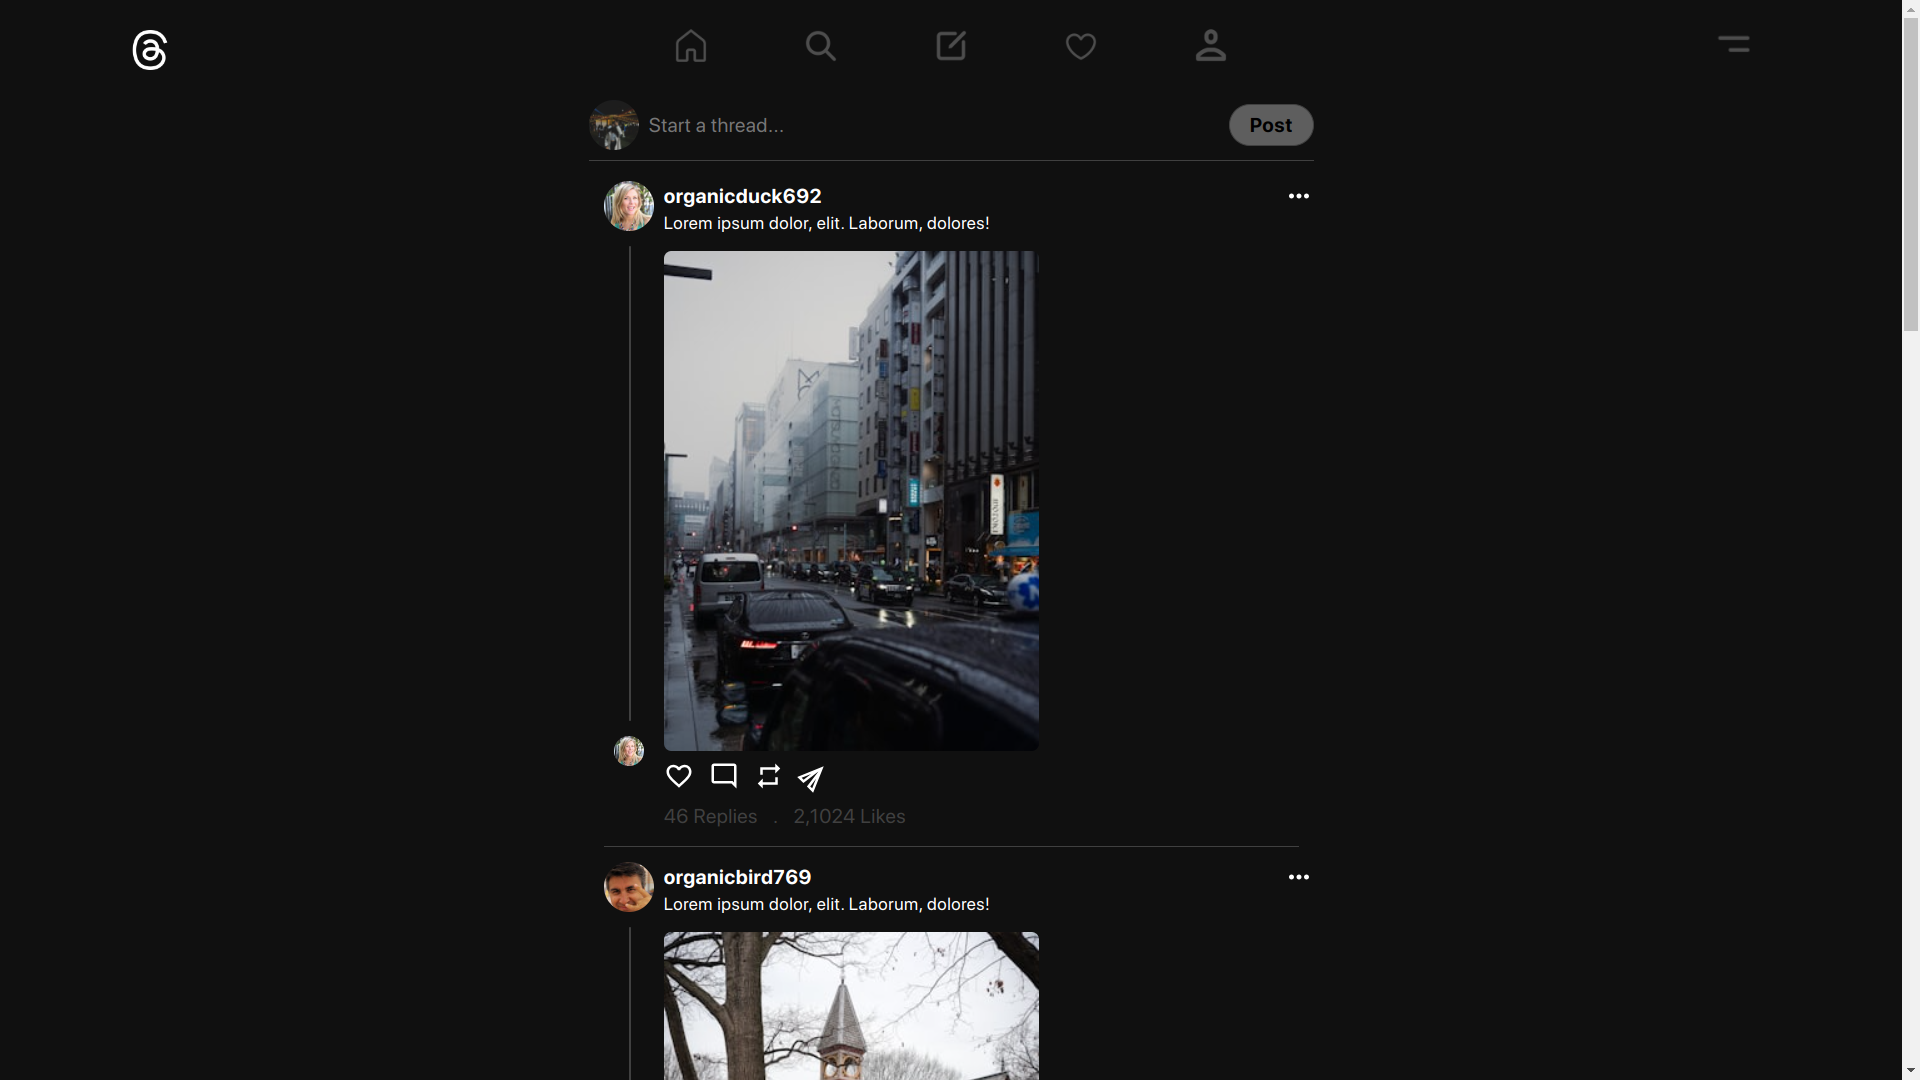
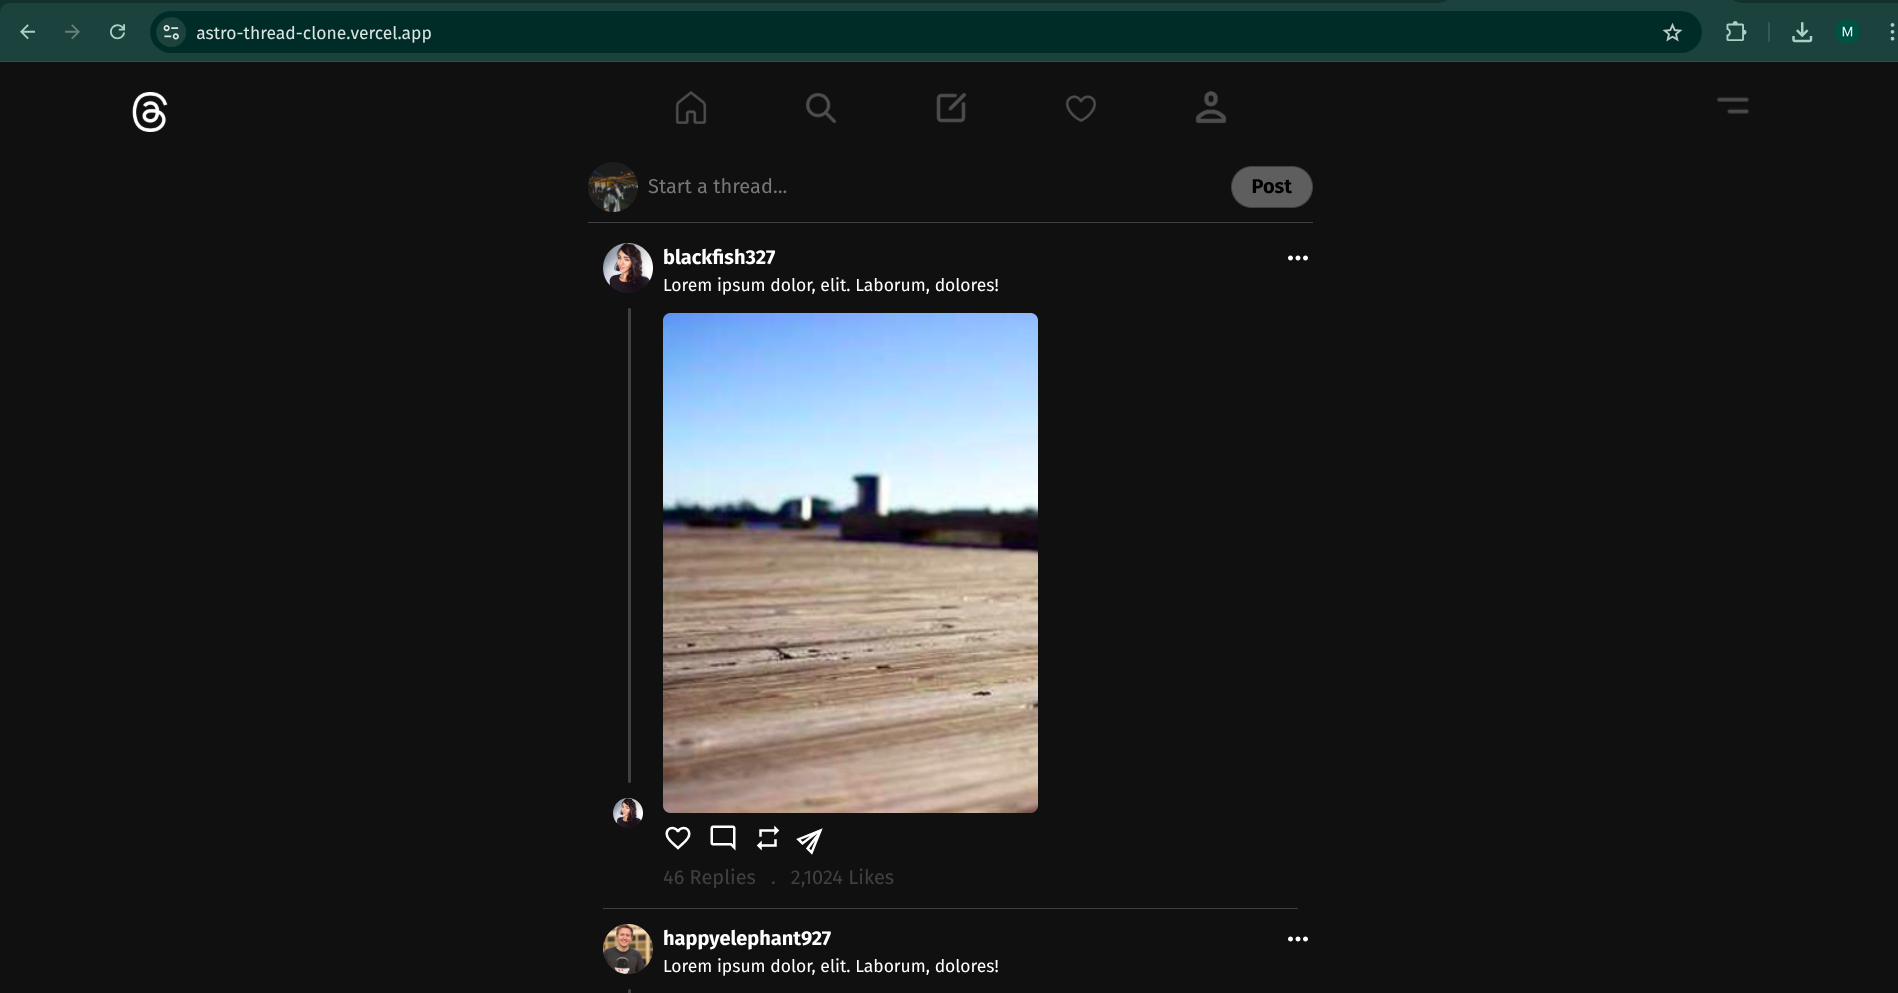
update projects

diff --git a/app/(home)/components/Projects.tsx b/app/(home)/components/Projects.tsx
@@ -1,29 +1,45 @@
-import { cn } from '@/lib/utils'
-import Link from 'next/link'
-import React from 'react'
-import { SiAstro, SiBun, SiCss3, SiDjango, SiFlask, SiHtml5, SiJavascript, SiJsonwebtokens, SiNextdotjs, SiPostman, SiPython, SiReact, SiTailwindcss, SiWebflow } from 'react-icons/si'
-import { DirectionAwareHover } from './ui/direction-aware-hover'
+import { cn } from '@/lib/utils';
+import Link from 'next/link';
+import React from 'react';
+import {
+  SiAntdesign,
+  SiAstro,
+  SiBun,
+  SiCanva,
+  SiCss3,
+  SiDjango,
+  SiFlask,
+  SiHtml5,
+  SiJavascript,
+  SiJsonwebtokens,
+  SiNextdotjs,
+  SiPostman,
+  SiPython,
+  SiReact,
+  SiTailwindcss,
+  SiWebflow,
+} from 'react-icons/si';
+import { DirectionAwareHover } from './ui/direction-aware-hover';
 
 export default function Projects() {
-
-  const projects =[
+  const projects = [
     {
-      title: 'Aarohan Poornima 2024',
-      tech: [SiHtml5, SiCss3, SiJavascript, SiWebflow],
-      link: 'https://aarohan.poornima.org',
-      cover: '/aarohan.png',
-    },
-    {
-      title: 'User Authentication System - Django', 
-      tech: [SiDjango, SiPython, SiJsonwebtokens],
-      link: 'https://github.com/muskangyanani/user-auth-django-withUI',
-      cover: '/django.png',
+      title: 'Snapto AI',
+      tech: [SiReact, SiAntdesign, SiCanva],
+      link: 'https://snapto.ai',
+      cover: '/snapto.png',
     },
     {
       title: 'Portfolio',
       tech: [SiNextdotjs, SiReact, SiTailwindcss, SiBun],
       link: 'https://muskangyanani.vercel.app',
       cover: '/portfolio.png',
+    },
+    {
+      title: 'Aarohan Poornima 2024',
+      tech: [SiHtml5, SiCss3, SiJavascript, SiWebflow],
+      link: 'https://aarohan.poornima.org',
+      cover: '/aarohan.png',
     },
     {
       title: 'Thread Clone',
@@ -37,35 +53,36 @@ export default function Projects() {
       link: 'https://muskaann29.pythonanywhere.com',
       cover: '/dynamic-portfolio.png',
     },
-  ]
+  ];
 
   return (
-    <div className='py-8 p-5 sm:p-0 max-w-5xl mx-auto'>
-      <h1 className='sm:text-5xl text-3xl font-bold underline underline-offset-4 decoration-rose-600 text-center'><span className='text-rose-600'>P</span>rojects</h1>
-      <div className='grid grid-col-1 sm:grid-cols-2 pt-20 gap-5'>
-        {
-          projects.map((project, index) =>{
-            return (
-              <Link href={project.link} key={index}>
-                <div className={cn("rounded-md")}>
-                  <DirectionAwareHover 
-                    imageUrl={project.cover} 
-                    className='w-full space-y-5 cursor-pointer'
-                  >
-                    <div className='space-y-2'>
-                      <h1 className='font-bold text-2xl'>{project.title}</h1>
-                      <div className='flex items-center gap-5 '>
-                        {project.tech.map((Icon, index)=>{
-                          return <Icon key={index} className='w-6 h-6'/>
-                        })}
-                      </div>
+    <div className="py-8 p-5 sm:p-0 max-w-5xl mx-auto">
+      <h1 className="sm:text-5xl text-3xl font-bold underline underline-offset-4 decoration-rose-600 text-center">
+        <span className="text-rose-600">P</span>rojects
+      </h1>
+      <div className="grid grid-col-1 sm:grid-cols-2 pt-20 gap-5">
+        {projects.map((project, index) => {
+          return (
+            <Link href={project.link} key={index} target="_blank">
+              <div className={cn('rounded-md')}>
+                <DirectionAwareHover
+                  imageUrl={project.cover}
+                  className="w-full space-y-5 cursor-pointer"
+                >
+                  <div className="space-y-2">
+                    <h1 className="font-bold text-2xl">{project.title}</h1>
+                    <div className="flex items-center gap-5 ">
+                      {project.tech.map((Icon, index) => {
+                        return <Icon key={index} className="w-6 h-6" />;
+                      })}
                     </div>
-                  </DirectionAwareHover>
-                </div>
-              </Link>
-            )
-          })}
+                  </div>
+                </DirectionAwareHover>
+              </div>
+            </Link>
+          );
+        })}
       </div>
     </div>
-  )
+  );
 }

diff --git a/app/(home)/components/Navbar.tsx b/app/(home)/components/Navbar.tsx
@@ -1,12 +1,12 @@
 import { cn } from '@/lib/utils';
 import Link from 'next/link';
-import React from 'react'
-import { SiGithub, SiLinkedin, SiX } from "react-icons/si";
+import React from 'react';
+import { SiGithub, SiLinkedin, SiX } from 'react-icons/si';
 
-export default function Navbar({className}:{className?:string}) {
-  const socials =[
+export default function Navbar({ className }: { className?: string }) {
+  const socials = [
     {
-      link: 'https://www.linkedin.com/in/muskan-gyanani-16a786249/',
+      link: 'https://www.linkedin.com/in/muskangyanani/',
       label: 'LinkedIn',
       icon: SiLinkedin,
     },
@@ -16,24 +16,34 @@ export default function Navbar({className}:{className?:string}) {
       icon: SiGithub,
     },
     {
-      link: 'https://twitter.com/muskan_gyanani',
+      link: 'https://x.com/HeyMuskan',
       label: 'Twitter',
       icon: SiX,
-    }
-  ]
+    },
+  ];
   return (
     <div className={cn('py-10 flex items-center justify-between', className)}>
-      <a href='/' className='text-2xl font-bold underline underline-offset-8 decoration-rose-500'><span className='text-rose-500'>M</span>G.</a>
-      <div className='flex gap-5 items-center'>
-        { 
-          socials.map((social, index)=>{
-            const Icon = social.icon
-            return <Link target='blank' href={social.link} key={index} aria-label={social.label}>
-              <Icon className='w-5 h-5 hover:scale-125 transition-all'/>
+      <a
+        href="/"
+        className="text-2xl font-bold underline underline-offset-8 decoration-rose-500"
+      >
+        <span className="text-rose-500">M</span>G.
+      </a>
+      <div className="flex gap-5 items-center">
+        {socials.map((social, index) => {
+          const Icon = social.icon;
+          return (
+            <Link
+              target="blank"
+              href={social.link}
+              key={index}
+              aria-label={social.label}
+            >
+              <Icon className="w-5 h-5 hover:scale-125 transition-all" />
             </Link>
-          })
-        }
+          );
+        })}
       </div>
     </div>
-  )
+  );
 }
